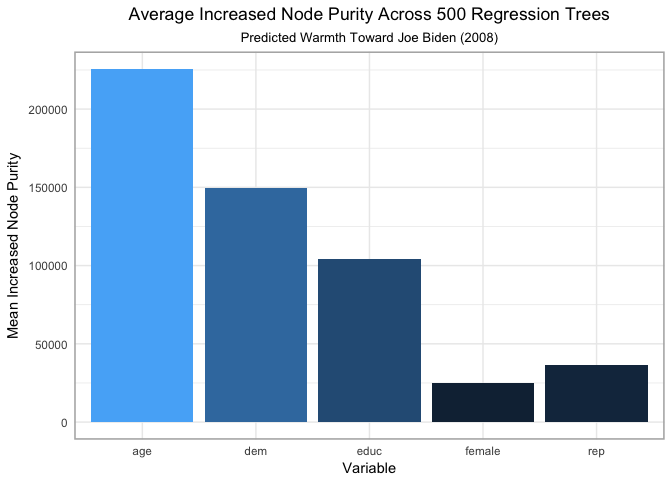
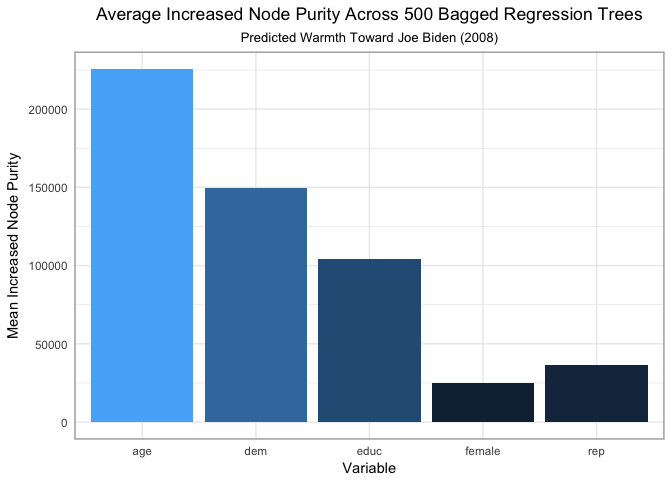
Done with bagging

Changed region(s): [[0.125, 0.0, 0.9688, 0.0625]]

diff --git a/students/Ochoa_Erin/PS8/ps8-emo.md b/students/Ochoa_Erin/PS8/ps8-emo.md
@@ -3,7 +3,7 @@ MACS 30100 PS8
 Erin M. Ochoa
 2017 March 6
 
--   [Part 1: Joe Biden (redux times two) \[3 points\]](#part-1-joe-biden-redux-times-two-3-points)
+-   [Part 1: Joe Biden (redux times two)](#part-1-joe-biden-redux-times-two)
 -   [Part 2: Modeling voter turnout \[3 points\]](#part-2-modeling-voter-turnout-3-points)
 -   [Part 3: OJ Simpson \[4 points\]](#part-3-oj-simpson-4-points)
 -   [Submission instructions](#submission-instructions)
@@ -15,132 +15,15 @@ mse = function(model, data) {
   x = modelr:::residuals(model, data)
   mean(x ^ 2, na.rm = TRUE)
 }
-
-#boltoff's function
-# hackish function to get line segment coordinates for ggplot
-partition.tree.data = function (tree, label = "yval", add = FALSE, ordvars, ...) 
-{
-  ptXlines = function(x, v, xrange, xcoord = NULL, ycoord = NULL, 
-                       tvar, i = 1L) {
-    if (v[i] == "<leaf>") {
-      y1 = (xrange[1L] + xrange[3L])/2
-      y2 = (xrange[2L] + xrange[4L])/2
-      return(list(xcoord = xcoord, ycoord = c(ycoord, y1, 
-                                              y2), i = i))
-    }
-    if (v[i] == tvar[1L]) {
-      xcoord = c(xcoord, x[i], xrange[2L], x[i], xrange[4L])
-      xr = xrange
-      xr[3L] = x[i]
-      ll2 = Recall(x, v, xr, xcoord, ycoord, tvar, i + 
-                      1L)
-      xr = xrange
-      xr[1L] = x[i]
-      return(Recall(x, v, xr, ll2$xcoord, ll2$ycoord, tvar, 
-                    ll2$i + 1L))
-    }
-    else if (v[i] == tvar[2L]) {
-      xcoord = c(xcoord, xrange[1L], x[i], xrange[3L], 
-                  x[i])
-      xr = xrange
-      xr[4L] = x[i]
-      ll2 = Recall(x, v, xr, xcoord, ycoord, tvar, i + 
-                      1L)
-      xr = xrange
-      xr[2L] = x[i]
-      return(Recall(x, v, xr, ll2$xcoord, ll2$ycoord, tvar, 
-                    ll2$i + 1L))
-    }
-    else stop("wrong variable numbers in tree.")
-  }
-  if (inherits(tree, "singlenode")) 
-    stop("cannot plot singlenode tree")
-  if (!inherits(tree, "tree")) 
-    stop("not legitimate tree")
-  frame = tree$frame
-  leaves = frame$var == "<leaf>"
-  var = unique(as.character(frame$var[!leaves]))
-  if (length(var) > 2L || length(var) < 1L) 
-    stop("tree can only have one or two predictors")
-  nlevels = sapply(attr(tree, "xlevels"), length)
-  if (any(nlevels[var] > 0L)) 
-    stop("tree can only have continuous predictors")
-  x = rep(NA, length(leaves))
-  x[!leaves] = as.double(substring(frame$splits[!leaves, "cutleft"], 
-                                    2L, 100L))
-  m = model.frame(tree)
-  if (length(var) == 1L) {
-    x = sort(c(range(m[[var]]), x[!leaves]))
-    if (is.null(attr(tree, "ylevels"))) 
-      y = frame$yval[leaves]
-    else y = frame$yprob[, 1L]
-    y = c(y, y[length(y)])
-    if (add) {
-      # lines(x, y, type = "s", ...)
-    }
-    else {
-      a = attributes(attr(m, "terms"))
-      yvar = as.character(a$variables[1 + a$response])
-      xo = m[[yvar]]
-      if (is.factor(xo)) 
-        ylim = c(0, 1)
-      else ylim = range(xo)
-      # plot(x, y, ylab = yvar, xlab = var, type = "s", ylim = ylim,
-      #      xaxs = "i", ...)
-    }
-    data_frame(x = x, y = y)
-  }
-  else {
-    if (!missing(ordvars)) {
-      ind = match(var, ordvars)
-      if (any(is.na(ind))) 
-        stop("unmatched names in vars")
-      var = ordvars[sort(ind)]
-    }
-    lab = frame$yval[leaves]
-    if (is.null(frame$yprob)) 
-      lab = format(signif(lab, 3L))
-    else if (match(label, attr(tree, "ylevels"), nomatch = 0L)) 
-      lab = format(signif(frame$yprob[leaves, label], 
-                           3L))
-    rx = range(m[[var[1L]]])
-    rx = rx + c(-0.025, 0.025) * diff(rx)
-    rz = range(m[[var[2L]]])
-    rz = rz + c(-0.025, 0.025) * diff(rz)
-    xrange = c(rx, rz)[c(1, 3, 2, 4)]
-    xcoord = NULL
-    ycoord = NULL
-    xy = ptXlines(x, frame$var, xrange, xcoord, ycoord, 
-                   var)
-    xx = matrix(xy$xcoord, nrow = 4L)
-    yy = matrix(xy$ycoord, nrow = 2L)
-
-    return(list(data_frame(xmin = xx[1L,],
-                           ymin = xx[2L,],
-                           xmax = xx[3L,],
-                           ymax = xx[4L,]),
-                data_frame(x = yy[1L,],
-                           y = yy[2L,],
-                           label = lab)))
-    # if (!add) 
-    #   plot(rx, rz, xlab = var[1L], ylab = var[2L], type = "n", 
-    #        xaxs = "i", yaxs = "i", ...)
-    # segments(xx[1L, ], xx[2L, ], xx[3L, ], xx[4L, ])
-    # text(yy[1L, ], yy[2L, ], as.character(lab), ...)
-  }
-}
 ```
 
-Part 1: Joe Biden (redux times two) \[3 points\]
-================================================
+Part 1: Joe Biden (redux times two)
+===================================
 
-We read in the data and create a categorical three-level variable for Party.
+We read in the data:
 
 ``` r
 df = read.csv('data/biden.csv')
-df$Party[df$dem == 1] = 'Democrat'
-df$Party[df$dem == 0 & df$rep == 0] = 'No Affiliation'
-df$Party[df$rep == 1] = 'Republican'
 ```
 
 Next, we split the dataset into training and validation sets in a ratio of 7:3, then estimate a regression tree:
@@ -172,13 +55,13 @@ biden_tree2 = tree(biden ~ female + age + educ + dem + rep, data = biden_train70
                    control = tree.control(nobs = nrow(biden_train70), mindev = .0000001))
 ```
 
-We prune the tree 49 different times, increasing the number of branches from 2 to 50 and storing the MSE for each pruned tree:
+We prune the tree 49 different times, increasing the number of leaves from 2 to 50 and storing the MSE for each pruned tree:
 
 ``` r
 rounds = 50
 
 mse_list_biden_50 = vector("numeric", rounds - 1)
-branch_list_biden_50 = vector("numeric", rounds - 1)
+leaf_list_biden_50 = vector("numeric", rounds - 1)
 
 set.seed(1234)
 
@@ -187,18 +70,18 @@ for(i in 2:rounds) {
 
     mse_val = mse(biden_mod,biden_test30)
     mse_list_biden_50[[i-1]] = mse_val
-    branch_list_biden_50[[i-1]] = i
+    leaf_list_biden_50[[i-1]] = i
 }
 
 mse_df_biden_50 = as.data.frame(mse_list_biden_50)
-mse_df_biden_50$branches = branch_list_biden_50
+mse_df_biden_50$branches = leaf_list_biden_50
 ```
 
-We plot the MSE for each tree vs. the number of branches:
+We plot the MSE for each tree vs. the number of leaves:
 
 ![](ps8-emo_files/figure-markdown_github/plot%20biden_50_mse-1.png)
 
-We can clearly see that the lowest MSE is 401.075 for a tree with 11 branches. We plot that tree:
+We can clearly see that the lowest MSE is 401.075 for a tree with 11 leaves. We plot that tree:
 
 ``` r
 biden_pruned11 <- prune.tree(biden_tree2, best=11)
@@ -215,18 +98,18 @@ The tree indicates that for Democrats, age is the next most important variable a
 
 Pruning the tree reduces the MSE from 406.417 to 401.075.
 
-We use the bagging approach to analyze this data, computing 1000 trees using the training data and testing the resulting model with the validation set:
+We use the bagging approach to analyze this data, computing 500 bootstrapped trees using the training data and testing the resulting model with the validation set:
 
 ``` r
 set.seed(1234)
 
 biden_bag_data_train = biden_train70 %>%
-                       select(-Party) %>%
+                       rename() %>%
                        mutate_each(funs(as.factor(.)), dem, rep) %>%
                        na.omit
 
 biden_bag_data_test = biden_test30 %>%
-                      select(-Party) %>%
+                      rename() %>%
                       mutate_each(funs(as.factor(.)), dem, rep) %>%
                       na.omit
 
@@ -245,27 +128,17 @@ biden_bag_data_test = biden_test30 %>%
 
 ``` r
 mse_bag_biden = mse(bag_biden, biden_bag_data_test)
+
+bag_biden_importance = as.data.frame(importance(bag_biden))
 ```
 
 Using the validation data, the model returns a test MSE of 484.358, which is considerably higher than the MSE found when pruning the tree earlier (401.075).
 
 Next, we review variable importance measures:
 
-``` r
-bag_biden_importance = as.data.frame(importance(bag_biden))
+![](ps8-emo_files/figure-markdown_github/biden_bag_importance-1.png)
 
-
-ggplot(bag_biden_importance, mapping=aes(x=rownames(bag_biden_importance), y=IncNodePurity)) +
-       geom_bar(stat="identity", aes(fill=IncNodePurity)) +
-       labs(title = "Average Increased Node Purity Across 500 Regression Trees",
-       subtitle = "Predicted Warmth Toward Joe Biden (2008)",
-       x = "Variable",
-       y = "Mean Increased Node Purity") + 
-       theme(plot.title = element_text(hjust = 0.5), plot.subtitle = element_text(hjust = 0.5),
-             panel.border = element_rect(linetype = "solid", color = "grey70", fill=NA, size=1.1), legend.position = 'none') 
-```
-
-![](ps8-emo_files/figure-markdown_github/biden_bag_importance-1.png) 1. Use the bagging approach to analyze this data. What test MSE do you obtain? Obtain variable importance measures and interpret the results.
+The variable importance plot shows that age and Democrat are the two most important variables as these yield the greatest average decreases (of approximately 225,000 and 150,000, respectively) in node impurity across 500 bagged regression trees. Despite the higher test MSE, the bagged tree model is likely a better model than the pruned tree above because the bagged model uses bootstrapping to create 500 different training sets, whereas the pruned tree above uses only a single training set. The bagged model averages the variance across the bootstrapped trees, which, together, suggest that age and Democrat are the most important variables while gender is the least important.
 
 1.  Use the random forest approach to analyze this data. What test MSE do you obtain? Obtain variable importance measures and interpret the results. Describe the effect of *m*, the number of variables considered at each split, on the error rate obtained.
 
